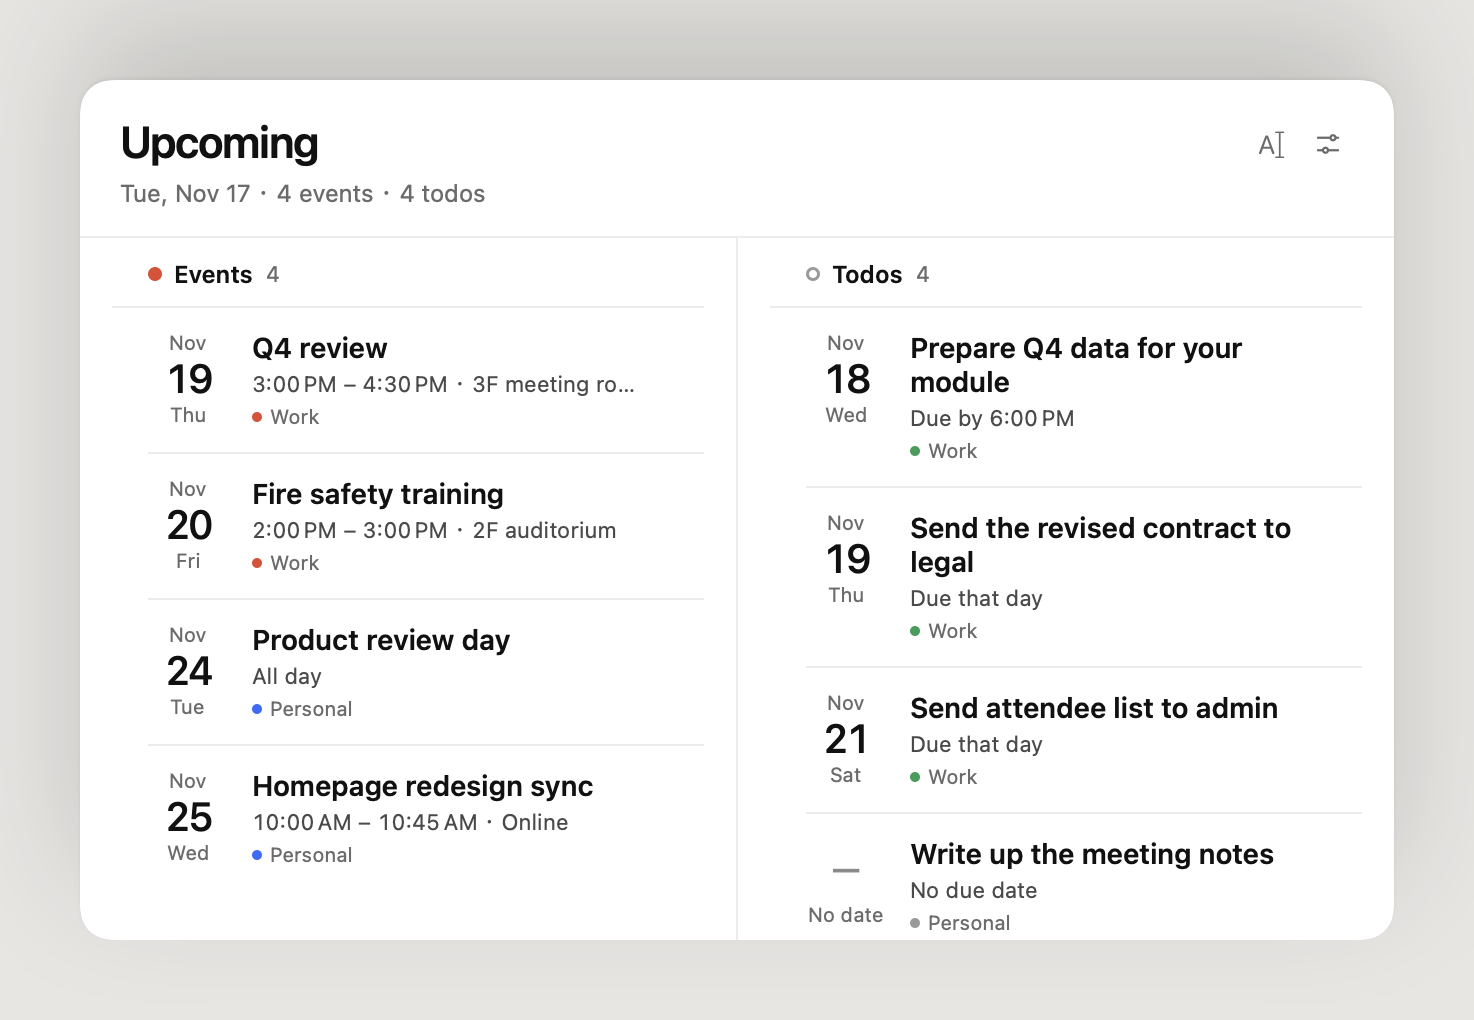
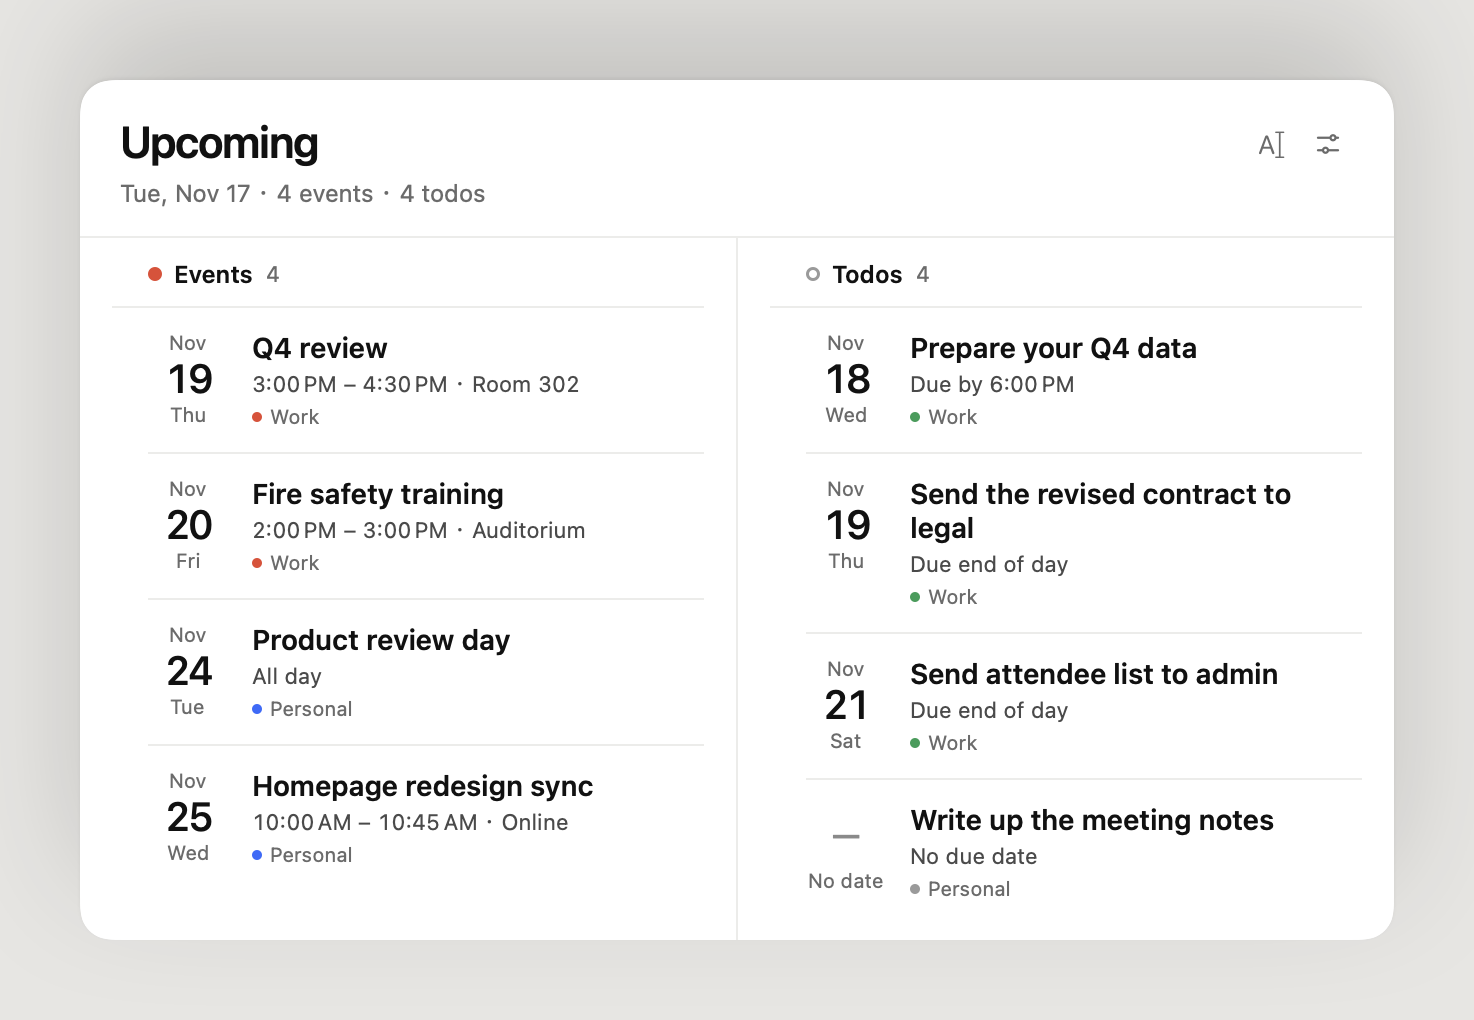
docs: make English README copy and screenshots read natively
- replace WeChat with Slack/iMessage and "3F meeting room" with "Room 302"
- Qwen is labelled Alibaba Cloud for English readers
- regenerate the English screenshots with native sample data

diff --git a/README.md b/README.md
@@ -8,7 +8,7 @@ A macOS menu bar app that turns text or a screenshot into calendar events and re
   <img src="docs/screenshots/en/agenda.png" width="720" alt="Daycatch agenda panel showing upcoming events and todos">
 </p>
 
-No more copying "Thursday 3pm, Q4 review, 3F meeting room" from WeChat into two different apps. Nothing is written until you confirm it, and everything written can be undone.
+No more copying “Thursday 3pm, Q4 review, Room 302” out of Slack or iMessage and into two different apps. Nothing is written until you confirm it, and everything written can be undone.
 
 ## Why another one
 
@@ -80,7 +80,7 @@ In the results panel: `↩` adds the checked items, `⌘E` edits a row inline, `
 | Claude (Anthropic) | `https://api.anthropic.com` | `claude-opus-5-5` |
 | OpenAI | `https://api.openai.com/v1` | `gpt-5-mini` |
 | DeepSeek | `https://api.deepseek.com/v1` | `deepseek-chat` |
-| Qwen (通义千问) | `https://dashscope.aliyuncs.com/compatible-mode/v1` | `qwen-plus` |
+| Qwen (Alibaba Cloud) | `https://dashscope.aliyuncs.com/compatible-mode/v1` | `qwen-plus` |
 | Custom | any OpenAI-compatible base URL | your choice |
 
 Anthropic uses the native Messages API; every other provider goes through the OpenAI-compatible chat completions API. Base URL and model are both editable, so other compatible services (local proxies, gateways, self-hosted models) work too. Input is capped at 20,000 characters.
